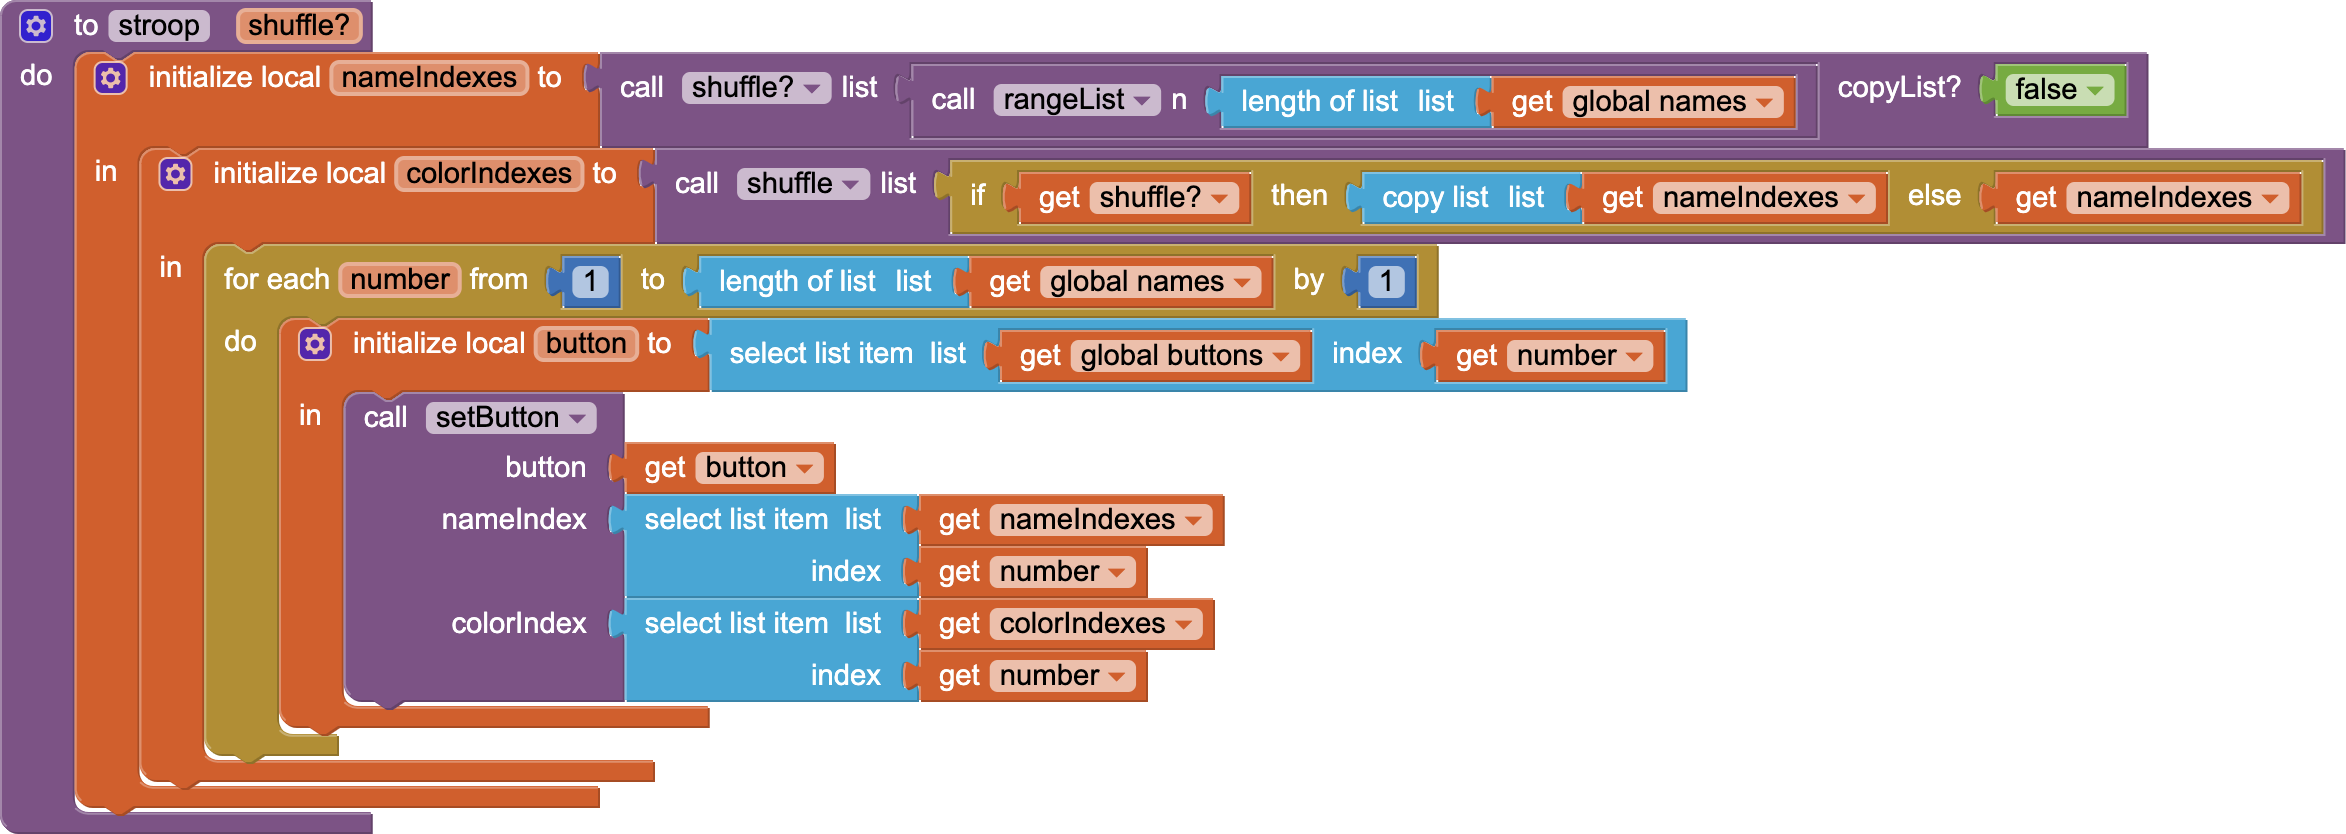
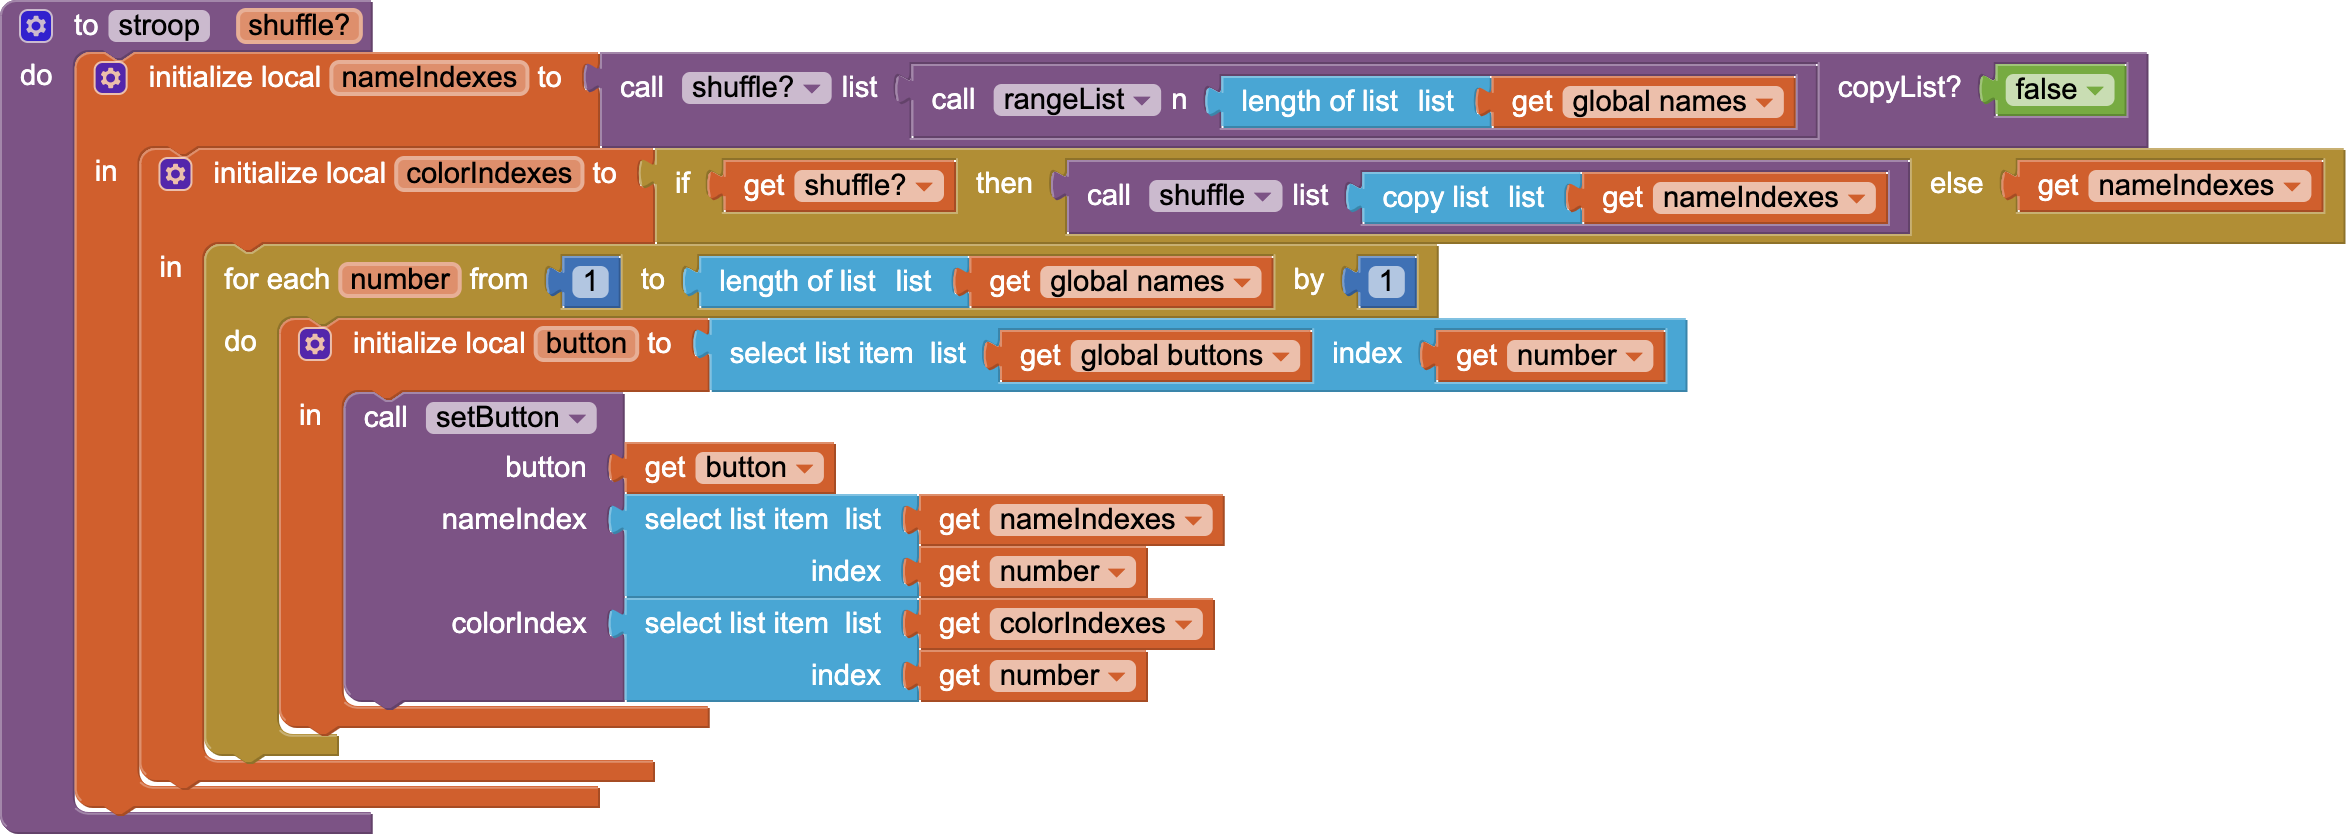
Added text for Rows 4 & 5.

Changed region(s): [[0.2489, 0.1559, 1.0, 0.3118]]

diff --git a/APCSPStroopExample/index.md b/APCSPStroopExample/index.md
@@ -33,7 +33,7 @@ Meeting the criteria for the APCS-P Create Performance Task [rubric](https://apc
 
 
 - The `nameIndexes` list is a local variable both *initialized* and *used* in the program code for the `stroop` procedure (above) to partially fulfill the programs purpose and to manage its complexity.
-- In the program code for the `stroop` procedure (above), the `nameIndexes` list is *initialized* as a local variable by the *shuffle* procedure, shuffling a range of integers. In the program code for the `stroop` procedure (above), the `nameIndexes ` list is *used*, in turn, by the `shuffle` procedure to initialize another local variable (`colorIndexes`), shuffling the `nameIndexes` list. For example, because shuffling is random, the `stroop` procedure might generate the following 7-element lists:
+- In the program code for the `stroop` procedure (above), the `nameIndexes` list is *initialized* as a local variable by the `shuffle` procedure, shuffling a range of integers. In the program code for the `stroop` procedure (above), the `nameIndexes ` list is *used*, in turn, by the `stroop` procedure to initialize another local variable (`colorIndexes`), shuffling a copy of the `nameIndexes` list if the `shuffle?` parameter is `true`. For example, because shuffling is random, the `stroop` procedure might generate the following 7-element lists:
 
 | List | Index `1` | Index `2` | Index `3` | Index `4` | Index `5` | Index `6` | Index `7` |
 | --- | :-: | :-: | :-: | :-: | :-: | :-: | :-: |
@@ -42,7 +42,7 @@ Meeting the criteria for the APCS-P Create Performance Task [rubric](https://apc
 | **`colorIndexes`** | `6` | `7` | `2` | `4` | `5` | `3` | `1` |
 
 
-- So as to not present the same Stroop test to the user every time, the `nameIndexes` list represents the shuffled names of colors. In the example, the `Button` at index `1` will have the color *name* at index `7` and the *color* at index `6`,  the `Button` at index `2` will have the color *name* at index `1` and the *color* at index `7`, *etc.* This assumes that the global `names` list and the global `colors` list (shown in the program code above) are parallel lists with corresponding elements.
+- So as to not present the same Stroop test to the user every time, the `nameIndexes` list represents the shuffled names of colors and the `colorIndexes` list (which is the shuffled `nameIndexes` list when the `shuffle?` parameter is `true`) represents the colors of the names. In the example, the `Button` at index `1` will have the color *name* at index `7` and the *color* at index `6`,  the `Button` at index `2` will have the color *name* at index `1` and the *color* at index `7`, *etc.* This assumes that the global `names` list and the global `colors` list (shown in the program code above) are parallel lists with corresponding elements.
 
 ---
 
@@ -51,30 +51,36 @@ Meeting the criteria for the APCS-P Create Performance Task [rubric](https://apc
 [![shuffle blocks](./shuffle-blocks.png){:width="800px"}](https://github.com/psb-david-petty/mit-app-inventor/blob/master/APCSPStroopExample/shuffle-blocks.png)
 [![swap blocks](./swap-blocks.png){:width="400px"}](https://github.com/psb-david-petty/mit-app-inventor/blob/master/APCSPStroopExample/swap-blocks.png)
 
--  In the program code for the `shuffle` procedure (above), the heart of [Satollo's Algorithm](https://en.wikipedia.org/wiki/Fisher%E2%80%93Yates_shuffle#Sattolo's_algorithm) is in swapping the elements of the list(s). This manages the complexity of the program code, because the alternative to the program code for the `swap` procedure (above), is to use a fixed number of (global) variables to achieve the same result. For example, even with *three* elements (global variables `element1`, `element2`, `element3`), the code for an example `swapVariables` procedure could be:
+-  In the program code for the `shuffle` procedure (above), the heart of [Satollo's Algorithm](https://en.wikipedia.org/wiki/Fisher–Yates_shuffle#Sattolo's_algorithm) is in swapping the elements of the list(s). This manages the complexity of the program code, because the alternative to the program code for the `swap` procedure (above), is to use a fixed number of (global) variables to achieve the same result. For example, even with only *three* elements (global variables `element1`, `element2`, `element3`), the code for an example `swapVariables` procedure could be:
 
 [![swapVariables blocks](./swapVariables-blocks.png){:width="400px"}](https://github.com/psb-david-petty/mit-app-inventor/blob/master/APCSPStroopExample/swapVariables-blocks.png)
 
-- This approach is *clearly* more complex even with only three variables, while a typical Stroop Test involves seven or more elements. Such a procedure would be proportionately more complex and would require code changes for every added element, whereas adding to the global `names` and the global `colors` parallel lists would not require program code changes.
+- This approach is *clearly* more complex even with only three variables, while a typical Stroop Test involves seven or more elements. Such a procedure would be quadratically more complex and would require code changes for every added element, whereas adding to the global `names` and the global `colors` parallel lists would not require any program code changes.
 
 ---
 
 ### Row 4
 
-[![shuffle blocks](./shuffle-blocks.png){:width="800px"}](https://github.com/psb-david-petty/mit-app-inventor/blob/master/APCSPStroopExample/shuffle-blocks.png)
-
-- The `shuffle` procedure (above) is a student-developed procedure with at least one parameter that has an effect on the functionality of the procedure. The parameter `copyList?` is a Boolean value that determines whether the `rearranged` local variable list is a copy of the `list` parameter or whether the `rearranged` local variable list is a reference to the `list` parameter which is shuffled in place.
-
 [![stroop blocks](./stroop-blocks.png){:width="800px"}](https://github.com/psb-david-petty/mit-app-inventor/blob/master/APCSPStroopExample/stroop-blocks.png)
 
-- The `stroop` procedure (above) shows where the student-developed procedure (`shuffle`) is called &mdash; twice. Once to create the shuffled `nameIndexs` list and once to create the shuffled `colorIndexes` list. 
-- The `shuffle` student-developed procedure (above) shuffles the 
+- The `stroop` procedure (above) is a student-developed procedure with at least one parameter that has an effect on the functionality of the procedure. The parameter `shuffle?` is a Boolean value that determines whether the `colorIndexes` local variable list is a shuffled copy of the `nameIndexes` local variable list or whether the `colorIndexes` local variable list is a reference to the `nameIndexes` parameter and not shuffled relative to it.
+
+[![ButtonMatching.Click blocks](./ButtonMatching.Click-blocks.png){:width="400px"}](https://github.com/psb-david-petty/mit-app-inventor/blob/master/APCSPStroopExample/ButtonMatching.Click-blocks.png) [![ButtonShuffled.Click blocks](./ButtonShuffled.Click-blocks.png){:width="400px"}](https://github.com/psb-david-petty/mit-app-inventor/blob/master/APCSPStroopExample/ButtonShuffled.Click-blocks.png)
+
+- The `ButtonMatching.Click` event (above) shows where the student-developed procedure (`stroop`) is called with a `false` parameter &mdash; so the color *names* match the *colors*. The `ButtonShuffled.Click` event (above) shows where the student-developed procedure (`stroop`) is called with a `true` parameter &mdash; so the color *names* do not match the *colors*. 
 
 ---
 
 ### Row 5
 
--  **Row 5** &mdash; [![color blocks](./color.png){:width="400px"}](https://github.com/psb-david-petty/mit-app-inventor/blob/master/APCSPExample/color.png) The *color* procedure initializes the `Button.BackgroundColor`s of *all* buttons by iterating through the `buttons` list setting the `Button.BackgroundColor` of each `Button` in turn. The rest of the sequence of blocks in the *color* procedure consists of a series of selections that test the value of the `number` parameter and react differently (set the `Button.BackgroundColor` of a differnt `Button`) based on its value.
+[![stroop blocks](./stroop-blocks.png){:width="800px"}](https://github.com/psb-david-petty/mit-app-inventor/blob/master/APCSPStroopExample/stroop-blocks.png)
+
+- The `stroop` procedure (above) is a student-developed algorithm that includes sequencing (more than one program block), selection (an `if / else` block that either shuffles or does not shuffle the `nameIndexes` local variable list), and iteration (a `for each` counted loop that sets the properties of `Button`s in the global variable `buttons` list.
+- To set up a Stroop Test, the student-developed algorithm works as follows:
+ - Given three global-variable, fixed, parallel lists with corresponding elements. The lists are: `buttons` (containing references to the buttons whose text and text colors are to be modified), `names` (containing color names), and `colors` (containing colors corresponding to the color names).
+ - Create two lists corresponding to the *indexes* of the `names` and `colors` lists. The `nameIndexes` list (the *indexes* of the `names` list) is shuffled relative to the indexes in order. The `colorIndexes` list (the *indexes* of the `colors` list) is either shuffled relative to the `nameIndexes` list (in the *shuffled* Stroop Test) or not shuffled relative to the `nameIndexes` list (in the *matching* Stroop Test).
+ - Iterate through the `buttons` list, setting the *text* for each button to the name referred to in the `names` list indexed indirectly by the index in the corresponding position in the `nameIndexes` list and setting the *color* for each button to the color referred to in the `colors` list indexed indirectly by the index in the corresponding position in the `colorIndexes` list.
+ - The `shuffle` procedure is a version of [Satollo's Algorithm](https://en.wikipedia.org/wiki/Fisher–Yates_shuffle#Sattolo's_algorithm) that shuffles lists in place.
 
 ---
 
